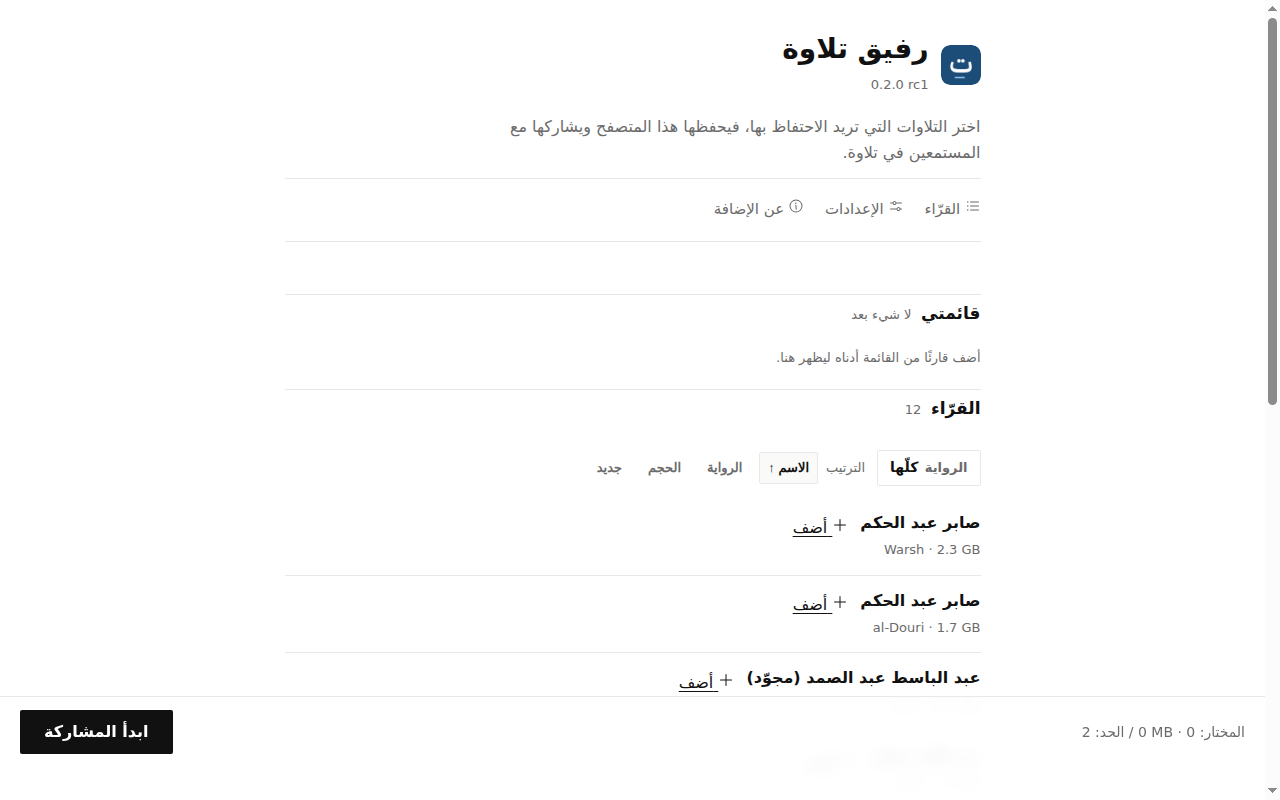
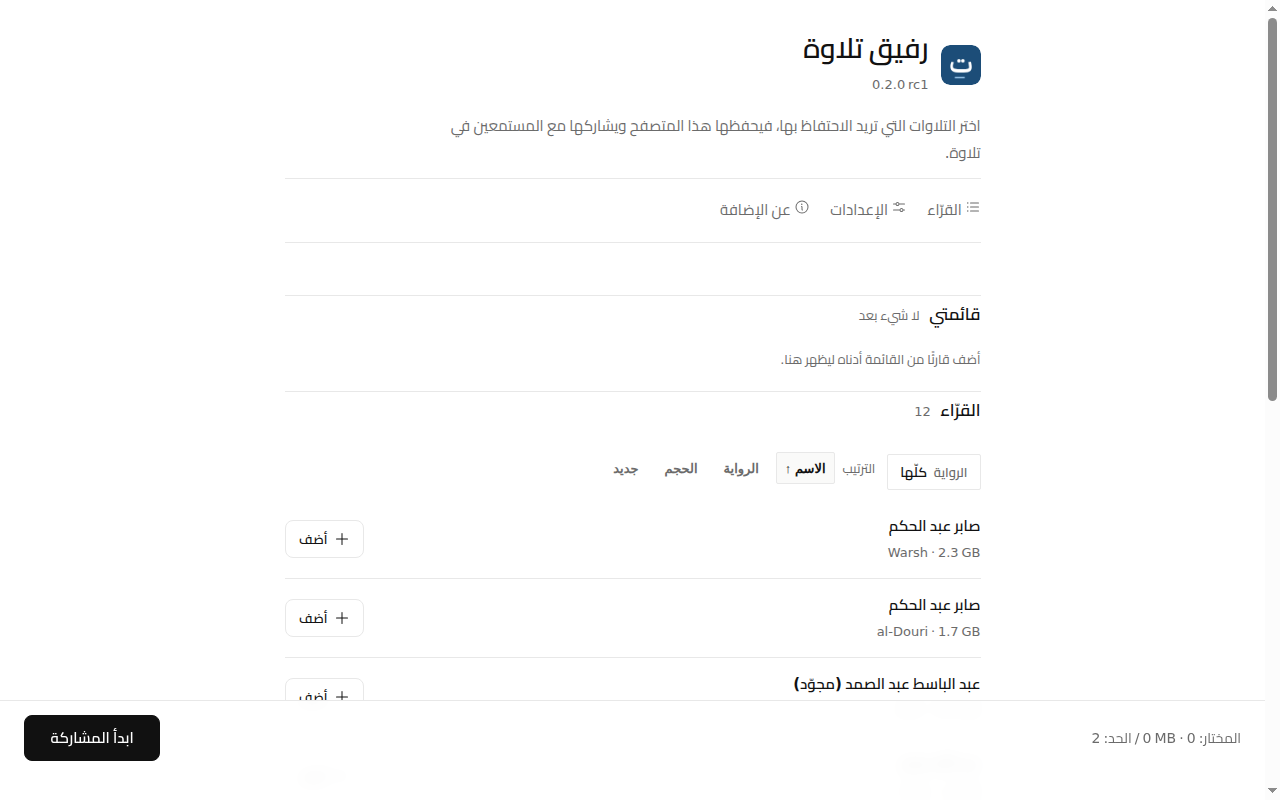
feat(extension): Cairo font and a single button shape (0.2.0 rc7)

diff --git a/apps/extension/src/styles.css b/apps/extension/src/styles.css
@@ -1,3 +1,28 @@
+/* Cairo, self-hosted in the Arabic subset: three weights, no network at runtime. */
+@font-face {
+  font-family: 'Cairo';
+  font-style: normal;
+  font-weight: 400;
+  font-display: swap;
+  src: url('/fonts/cairo-400.woff2') format('woff2');
+}
+
+@font-face {
+  font-family: 'Cairo';
+  font-style: normal;
+  font-weight: 600;
+  font-display: swap;
+  src: url('/fonts/cairo-600.woff2') format('woff2');
+}
+
+@font-face {
+  font-family: 'Cairo';
+  font-style: normal;
+  font-weight: 700;
+  font-display: swap;
+  src: url('/fonts/cairo-700.woff2') format('woff2');
+}
+
 /*
  * The site's system, not a new one: one ink, one muted, one line, one surface,
  * one wave hue, and dark following the system. Values copied from
@@ -40,7 +65,7 @@ body {
   margin: 0;
   background: var(--surface);
   color: var(--ink);
-  font: 16px/1.65 system-ui, -apple-system, 'Segoe UI', 'Noto Naskh Arabic', sans-serif;
+  font: 15px/1.75 'Cairo', system-ui, -apple-system, 'Segoe UI', sans-serif;
   -webkit-font-smoothing: antialiased;
 }
 
@@ -223,10 +248,19 @@ ul.roster {
 
 ul.roster li {
   display: flex;
-  align-items: flex-start;
-  gap: 0.75rem;
-  padding: 0.75rem 0;
+  align-items: center;
+  gap: 1rem;
+  padding: 0.8rem 0;
   border-block-end: 1px solid var(--line);
+}
+
+ul.roster li > .row {
+  flex: 1;
+  min-inline-size: 0;
+}
+
+ul.roster li > button {
+  flex: none;
 }
 
 label.row {
@@ -268,50 +302,90 @@ input[type='checkbox'] {
   inset-inline: 0;
   inset-block-end: 0;
   z-index: 3;
-  display: flex;
-  flex-wrap: wrap;
+  display: grid;
+  grid-template-columns: 1fr auto;
   align-items: center;
-  gap: 0.75rem;
-  padding: 0.85rem 1.25rem;
+  gap: 0.35rem 1rem;
+  padding: 0.85rem 1.5rem;
   background: color-mix(in srgb, var(--surface) 92%, transparent);
   backdrop-filter: blur(8px);
   border-block-start: 1px solid var(--line);
 }
 
 .bar .totals {
-  flex: 1;
-  min-inline-size: 12rem;
+  min-inline-size: 0;
   font-size: 0.875rem;
   color: var(--muted);
 }
 
-button.primary {
-  min-height: 44px;
-  padding: 0 1.5rem;
-  border: 0;
-  border-radius: var(--radius);
-  background: var(--ink);
-  color: var(--surface);
+.bar .status {
+  grid-column: 1 / -1;
+}
+
+/* One button shape, three weights. Primary commits, action changes one row,
+   quiet is a link. Nothing underlines except a link inside prose. */
+button.primary,
+button.action,
+button.quiet {
+  display: inline-flex;
+  align-items: center;
+  justify-content: center;
+  gap: 0.4rem;
+  border-radius: 8px;
   font: inherit;
   font-weight: 600;
   cursor: pointer;
+  transition: background-color 120ms ease, border-color 120ms ease, color 120ms ease;
+}
+
+button.primary {
+  min-height: 46px;
+  padding: 0 1.6rem;
+  border: 1px solid var(--ink);
+  background: var(--ink);
+  color: var(--surface);
+  font-size: 0.9375rem;
+}
+
+button.primary:hover:not([disabled]) {
+  background: var(--wave-front);
+  border-color: var(--wave-front);
 }
 
 button.primary[disabled] {
-  opacity: 0.4;
+  background: transparent;
+  border-color: var(--line);
+  color: var(--muted);
   cursor: not-allowed;
 }
 
-button.ghost {
-  min-height: 36px;
+button.action {
+  min-height: 38px;
+  padding: 0 0.85rem;
+  border: 1px solid var(--line);
+  background: var(--surface);
+  color: var(--ink);
+  font-size: 0.8125rem;
+  white-space: nowrap;
+}
+
+button.action:hover {
+  border-color: var(--wave-front);
+  color: var(--wave-front);
+}
+
+button.quiet {
+  min-height: 32px;
   padding: 0;
   border: 0;
   background: transparent;
+  color: var(--muted);
+  font-size: 0.8125rem;
+  text-decoration: none;
+}
+
+button.quiet:hover {
   color: var(--ink);
-  font: inherit;
-  text-decoration: underline;
-  text-underline-offset: 3px;
-  cursor: pointer;
 }
 
 .status {
@@ -500,7 +574,11 @@ details.group > summary .meta {
   flex-wrap: wrap;
   align-items: center;
   gap: 0.75rem;
-  margin-block: 0.5rem 0.25rem;
+  margin-block: 0.5rem 0.5rem;
+}
+
+.roster-tools details.filter {
+  margin-block-end: 0;
 }
 
 .fresh-head {

diff --git a/apps/extension/src/views/reciters.tsx b/apps/extension/src/views/reciters.tsx
@@ -106,7 +106,7 @@ export function RecitersView({
                     </span>
                   </span>
                 </span>
-                <button type="button" className="ghost" onClick={() => onRemove(reciter.infohash)}>
+                <button type="button" className="action" onClick={() => onRemove(reciter.infohash)}>
                   <TrashIcon /> {copy.remove}
                 </button>
               </li>
@@ -129,7 +129,7 @@ export function RecitersView({
         {failed ? (
           <p className="meta">
             {copy.failed}{' '}
-            <button type="button" className="ghost" onClick={onRetry}>
+            <button type="button" className="quiet" onClick={onRetry}>
               {copy.retry}
             </button>
           </p>
@@ -173,7 +173,7 @@ export function RecitersView({
                   </span>
                 </span>
               </span>
-              <button type="button" className="ghost" onClick={() => onAdd(reciter.infohash)}>
+              <button type="button" className="action" onClick={() => onAdd(reciter.infohash)}>
                 <PlusIcon /> {copy.add}
               </button>
             </li>
@@ -200,7 +200,7 @@ export function RecitersView({
                     <span className="meta">{formatBytes(reciter.sizeBytes ?? 0)}</span>
                   </span>
                 </span>
-                <button type="button" className="ghost" onClick={() => onRemoveUnpublished(reciter.infohash)}>
+                <button type="button" className="action" onClick={() => onRemoveUnpublished(reciter.infohash)}>
                   <TrashIcon /> {copy.remove}
                 </button>
               </li>

diff --git a/apps/extension/src/components/fresh-strip.tsx b/apps/extension/src/components/fresh-strip.tsx
@@ -25,7 +25,7 @@ export function FreshStrip({
     <section className="fresh" aria-label={labels.title}>
       <div className="fresh-head">
         <h2>{labels.title}</h2>
-        <button type="button" className="ghost" onClick={onDismiss} aria-label={labels.dismiss}>
+        <button type="button" className="quiet" onClick={onDismiss} aria-label={labels.dismiss}>
           ×
         </button>
       </div>
@@ -38,7 +38,7 @@ export function FreshStrip({
                 {reciter.riwaya} · {reciter.sizeBytes ? formatBytes(reciter.sizeBytes) : labels.unknown}
               </span>
             </span>
-            <button type="button" className="ghost" onClick={() => onAdd(reciter.infohash)}>
+            <button type="button" className="action" onClick={() => onAdd(reciter.infohash)}>
               <PlusIcon /> {labels.add}
             </button>
           </li>

diff --git a/apps/extension/src/entrypoints/popup/index.tsx b/apps/extension/src/entrypoints/popup/index.tsx
@@ -92,7 +92,7 @@ function Popup() {
             {manifest.version_name ?? manifest.version}
           </bdi>
         </span>
-        <button type="button" className="ghost" onClick={() => void togglePause()}>
+        <button type="button" className="action" onClick={() => void togglePause()}>
           {paused ? copy.resumeShort : copy.pauseShort}
         </button>
       </header>

diff --git a/apps/extension/src/components/riwaya-filter.tsx b/apps/extension/src/components/riwaya-filter.tsx
@@ -67,7 +67,7 @@ export function RiwayaFilter({
       <div className="filter-panel" role="group" aria-label={labels.label}>
         <button
           type="button"
-          className="ghost"
+          className="quiet"
           onClick={() => {
             onChange([]);
             if (ref.current) ref.current.open = false;
